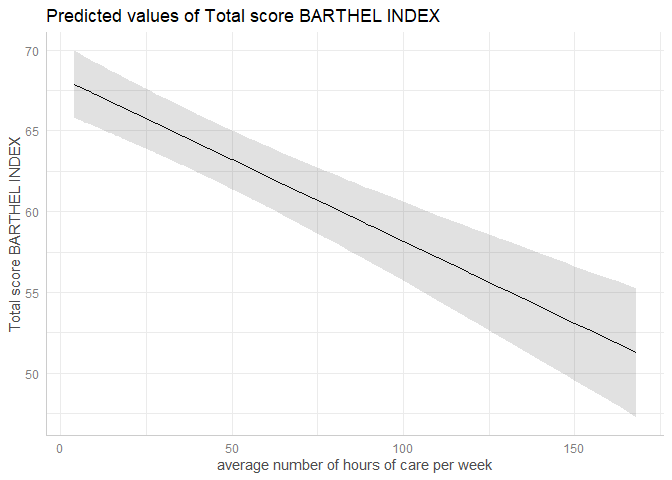
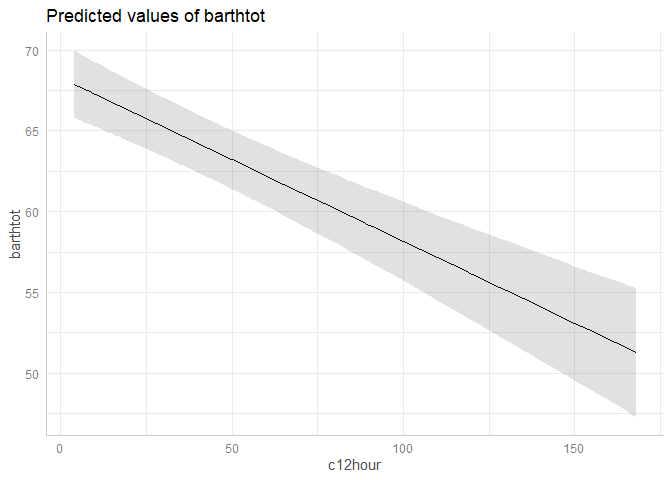
render readme

Changed region(s): [[0.3125, 0.9375, 0.75, 1.0], [0.2812, 0.0, 0.6562, 0.0625], [0.0, 0.2812, 0.0312, 0.6875]]

diff --git a/README.md b/README.md
@@ -1,7 +1,7 @@
 
 # ggeffects - Estimated Marginal Means and Adjusted Predictions from Regression Models<img src="man/figures/logo.png" align="right" />
 
-[![CRAN\_Status\_Badge](http://www.r-pkg.org/badges/version/ggeffects)](https://cran.r-project.org/package=ggeffects)
+[![CRAN_Status_Badge](http://www.r-pkg.org/badges/version/ggeffects)](https://cran.r-project.org/package=ggeffects)
   
 [![DOI](http://joss.theoj.org/papers/10.21105/joss.00772/status.svg)](https://doi.org/10.21105/joss.00772)
   
@@ -38,14 +38,14 @@ holds the non-focal variables constant and varies the focal
 variable(s)**. This is achieved by three core ideas that describe the
 philosophy of the function design:
 
-1.  Functions are type-safe and always return a data frame with the
+1)  Functions are type-safe and always return a data frame with the
     same, consistent structure;
 
-2.  there is a simple, unique approach to calculate marginal
+2)  there is a simple, unique approach to calculate marginal
     effects/adjusted predictions and estimated marginal means for many
     different models;
 
-3.  the package supports “labelled data” (Lüdecke 2018), which allows
+3)  the package supports “labelled data” (Lüdecke 2018), which allows
     human readable annotations for graphical outputs.
 
 This means, users do not need to care about any expensive steps after
@@ -56,7 +56,7 @@ to use with the **ggplot2**-package, however, there is also a
 ## Definition of “marginal effects”
 
 There is no common language across fields regarding a unique meaning of
-“marginal effects.” Thus, the wording throughout this package may vary.
+“marginal effects”. Thus, the wording throughout this package may vary.
 Maybe “adjusted predictions” comes closest to what **ggeffects**
 actually does. To avoid confusion about what is actually calculated and
 returned by the package’s functions `ggpredict()`, `ggemmeans()` and
@@ -80,9 +80,9 @@ different models. Currently supported model-objects are: `averaging`,
 **gam**), `gamlss`, `gamm`, `gamm4`, `gee`, `geeglm`, `glm`, `glm.nb`,
 `glmer`, `glmer.nb`, `glmmTMB`, `glmmPQL`, `glmrob`, `glmRob`, `glmx`,
 `gls`, `hurdle`, `ivreg`, `lm`, `lm_robust`, `lme`, `lmer`, `lmrob`,
-`lmRob`, `logistf`, `lrm`, `mclogit`, `mlogit`, `MixMod`, `MCMCglmm`,
-`mixor`, `multinom`, `negbin`, `nlmer`, `ols`, `orm`, `plm`, `polr`,
-`rlm`, `rlmer`, `rq`, `rqss`, `stanreg`, `survreg`, `svyglm`,
+`lmRob`, `logistf`, `logitr`, `lrm`, `mclogit`, `mlogit`, `MixMod`,
+`MCMCglmm`, `mixor`, `multinom`, `negbin`, `nlmer`, `ols`, `orm`, `plm`,
+`polr`, `rlm`, `rlmer`, `rq`, `rqss`, `stanreg`, `survreg`, `svyglm`,
 `svyglm.nb`, `tidymodels`, `tobit`, `truncreg`, `vgam`, `wbm`,
 `zeroinfl` and `zerotrunc`.
 
@@ -116,7 +116,7 @@ data(efc)
 fit <- lm(barthtot ~ c12hour + bs(neg_c_7) * c161sex + e42dep, data = efc)
 
 ggpredict(fit, terms = "c12hour")
-#> # Predicted values of Total score BARTHEL INDEX
+#> # Predicted values of barthtot
 #> 
 #> c12hour | Predicted |         95% CI
 #> ------------------------------------
@@ -162,10 +162,10 @@ With three variables, predictions can be grouped and faceted.
 
 ``` r
 ggpredict(fit, terms = c("neg_c_7", "c161sex", "e42dep"))
-#> # Predicted values of Total score BARTHEL INDEX
+#> # Predicted values of barthtot
 #> 
-#> # c161sex = Male
-#> #  e42dep = [1] independent
+#> # c161sex = 1
+#> #  e42dep = 1
 #> 
 #> neg_c_7 | Predicted |          95% CI
 #> -------------------------------------
@@ -174,8 +174,8 @@ ggpredict(fit, terms = c("neg_c_7", "c161sex", "e42dep"))
 #>      17 |     93.79 | [86.96, 100.63]
 #>      28 |    164.57 | [95.98, 233.17]
 #> 
-#> # c161sex = Female
-#> #  e42dep = [1] independent
+#> # c161sex = 2
+#> #  e42dep = 1
 #> 
 #> neg_c_7 | Predicted |           95% CI
 #> --------------------------------------
@@ -184,8 +184,8 @@ ggpredict(fit, terms = c("neg_c_7", "c161sex", "e42dep"))
 #>      17 |     94.90 | [ 90.21,  99.60]
 #>      28 |     90.26 | [ 71.79, 108.74]
 #> 
-#> # c161sex = Male
-#> #  e42dep = [2] slightly dependent
+#> # c161sex = 1
+#> #  e42dep = 2
 #> 
 #> neg_c_7 | Predicted |          95% CI
 #> -------------------------------------
@@ -194,8 +194,8 @@ ggpredict(fit, terms = c("neg_c_7", "c161sex", "e42dep"))
 #>      17 |     74.79 | [68.68,  80.89]
 #>      28 |    145.57 | [77.00, 214.14]
 #> 
-#> # c161sex = Female
-#> #  e42dep = [2] slightly dependent
+#> # c161sex = 2
+#> #  e42dep = 2
 #> 
 #> neg_c_7 | Predicted |         95% CI
 #> ------------------------------------
@@ -204,8 +204,8 @@ ggpredict(fit, terms = c("neg_c_7", "c161sex", "e42dep"))
 #>      17 |     75.90 | [72.29, 79.51]
 #>      28 |     71.26 | [53.07, 89.45]
 #> 
-#> # c161sex = Male
-#> #  e42dep = [3] moderately dependent
+#> # c161sex = 1
+#> #  e42dep = 3
 #> 
 #> neg_c_7 | Predicted |          95% CI
 #> -------------------------------------
@@ -214,8 +214,8 @@ ggpredict(fit, terms = c("neg_c_7", "c161sex", "e42dep"))
 #>      17 |     55.78 | [50.04,  61.52]
 #>      28 |    126.56 | [57.98, 195.14]
 #> 
-#> # c161sex = Female
-#> #  e42dep = [3] moderately dependent
+#> # c161sex = 2
+#> #  e42dep = 3
 #> 
 #> neg_c_7 | Predicted |         95% CI
 #> ------------------------------------
@@ -224,8 +224,8 @@ ggpredict(fit, terms = c("neg_c_7", "c161sex", "e42dep"))
 #>      17 |     56.89 | [53.86, 59.91]
 #>      28 |     52.25 | [34.21, 70.29]
 #> 
-#> # c161sex = Male
-#> #  e42dep = [4] severely dependent
+#> # c161sex = 1
+#> #  e42dep = 4
 #> 
 #> neg_c_7 | Predicted |          95% CI
 #> -------------------------------------
@@ -234,8 +234,8 @@ ggpredict(fit, terms = c("neg_c_7", "c161sex", "e42dep"))
 #>      17 |     36.77 | [30.97,  42.58]
 #>      28 |    107.55 | [38.93, 176.18]
 #> 
-#> # c161sex = Female
-#> #  e42dep = [4] severely dependent
+#> # c161sex = 2
+#> #  e42dep = 4
 #> 
 #> neg_c_7 | Predicted |         95% CI
 #> ------------------------------------
